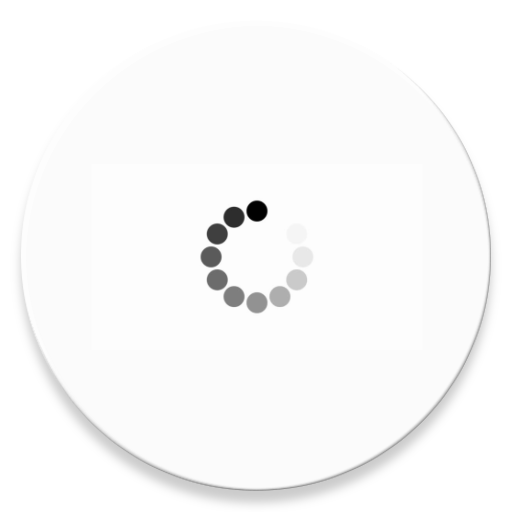
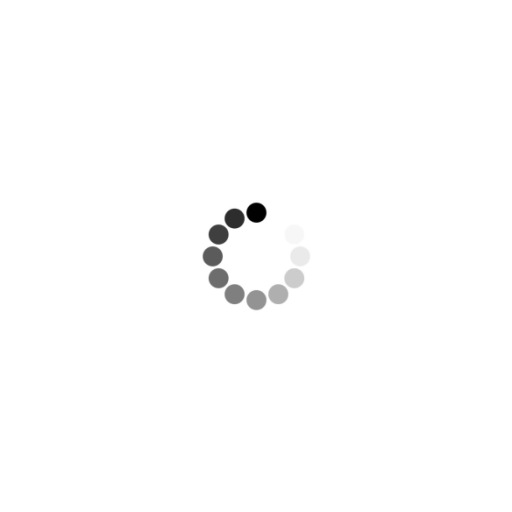
added scroll view for sell fragment and splash screen(not working)

diff --git a/app/src/main/java/com/example/valarmorghulis/firebaseauth/DrawerActivity.java b/app/src/main/java/com/example/valarmorghulis/firebaseauth/DrawerActivity.java
@@ -1,6 +1,7 @@
 package com.example.valarmorghulis.firebaseauth;
 
 import android.content.Intent;
+import android.os.Handler;
 import android.support.annotation.NonNull;
 import android.support.design.widget.NavigationView;
 import android.support.v4.view.GravityCompat;
@@ -17,11 +18,21 @@ import com.google.firebase.auth.FirebaseAuth;
 
 public class DrawerActivity extends AppCompatActivity implements NavigationView.OnNavigationItemSelectedListener {
     private DrawerLayout drawer;
+//    private static int SPLASH_TIME_OUT = 4000;
 
     @Override
     protected void onCreate(Bundle savedInstanceState) {
         super.onCreate(savedInstanceState);
         setContentView(R.layout.activity_drawer);
+
+        /*new Handler().postDelayed(new Runnable() {
+            @Override
+            public void run() {
+                Intent SplashIntent = new Intent(DrawerActivity.this,Activity_splash_screen.class);
+                startActivity(SplashIntent);
+                finish();
+            }
+        },SPLASH_TIME_OUT);*/
 
         Toolbar toolbar = findViewById(R.id.toolbar);
         setSupportActionBar(toolbar);

diff --git a/app/src/main/java/com/example/valarmorghulis/firebaseauth/LoginActivity.java b/app/src/main/java/com/example/valarmorghulis/firebaseauth/LoginActivity.java
@@ -1,6 +1,7 @@
 package com.example.valarmorghulis.firebaseauth;
 
 import android.content.Intent;
+import android.os.Handler;
 import android.support.annotation.NonNull;
 import android.support.design.widget.TextInputEditText;
 import android.support.design.widget.TextInputLayout;
@@ -20,6 +21,7 @@ import com.google.firebase.auth.FirebaseAuth;
 
 
 public class LoginActivity extends AppCompatActivity implements View.OnClickListener{
+
 
     private FirebaseAuth mAuth;
     EditText editTextEmail;

diff --git a/app/src/main/java/com/example/valarmorghulis/firebaseauth/ImageAdapter.java b/app/src/main/java/com/example/valarmorghulis/firebaseauth/ImageAdapter.java
@@ -38,7 +38,7 @@ public class ImageAdapter extends RecyclerView.Adapter<ImageAdapter.ImageViewHol
         holder.textViewPrice.setText("₹ " + uploadCurrent.getPrice());
         Picasso.with(mContext)
                 .load(uploadCurrent.getImageUrl())
-                .placeholder(R.mipmap.ic_loading_round)
+                .placeholder(R.mipmap.ic_loading)
                 .fit()
                 .centerInside()
                 .into(holder.imageView);

diff --git a/app/src/main/java/com/example/valarmorghulis/firebaseauth/Activity_splash_screen.java b/app/src/main/java/com/example/valarmorghulis/firebaseauth/Activity_splash_screen.java
@@ -1,0 +1,13 @@
+package com.example.valarmorghulis.firebaseauth;
+
+import android.support.v7.app.AppCompatActivity;
+import android.os.Bundle;
+
+public class Activity_splash_screen extends AppCompatActivity {
+
+    @Override
+    protected void onCreate(Bundle savedInstanceState) {
+        super.onCreate(savedInstanceState);
+        setContentView(R.layout.activity_splash_screen);
+    }
+}
